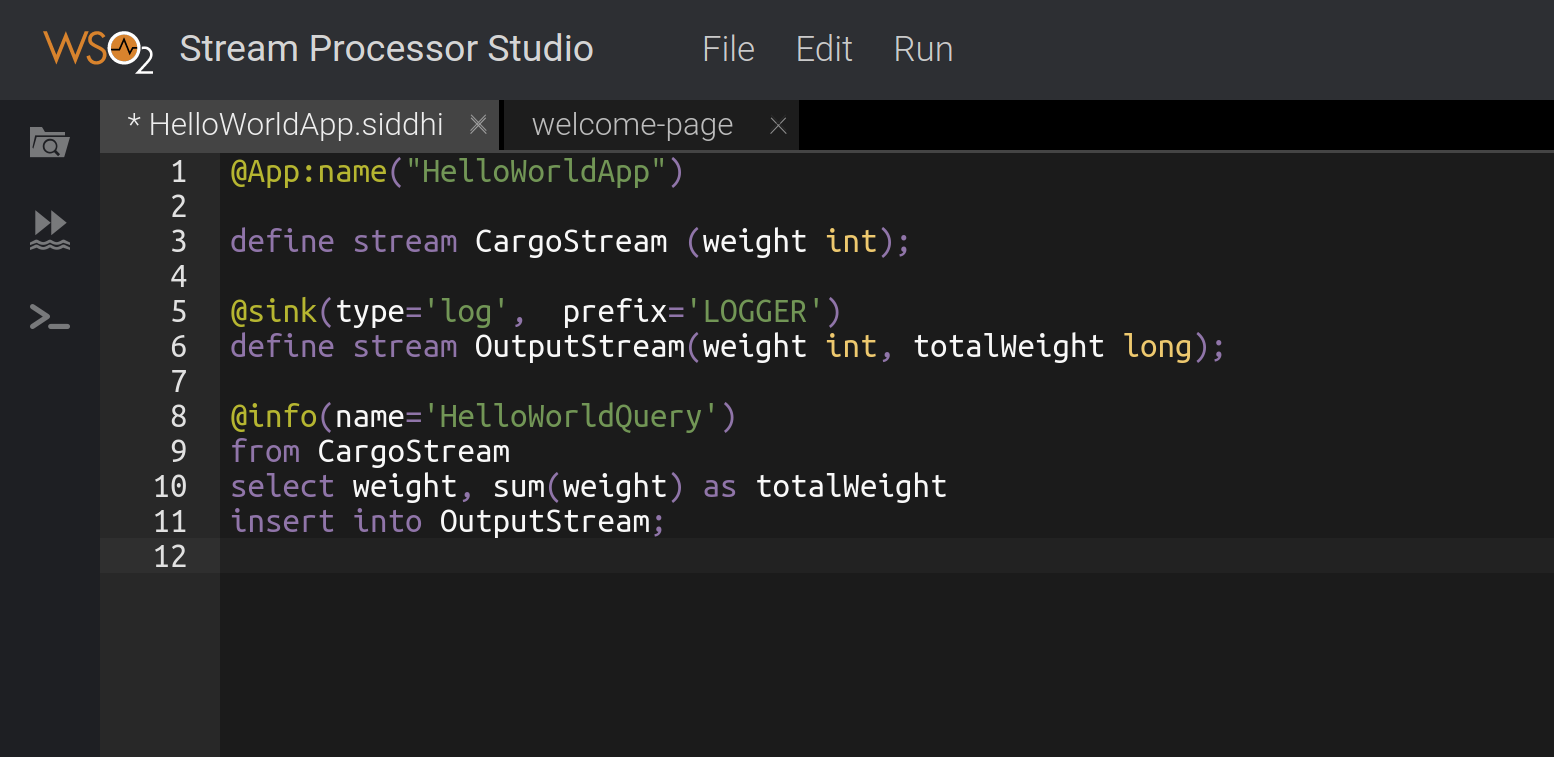
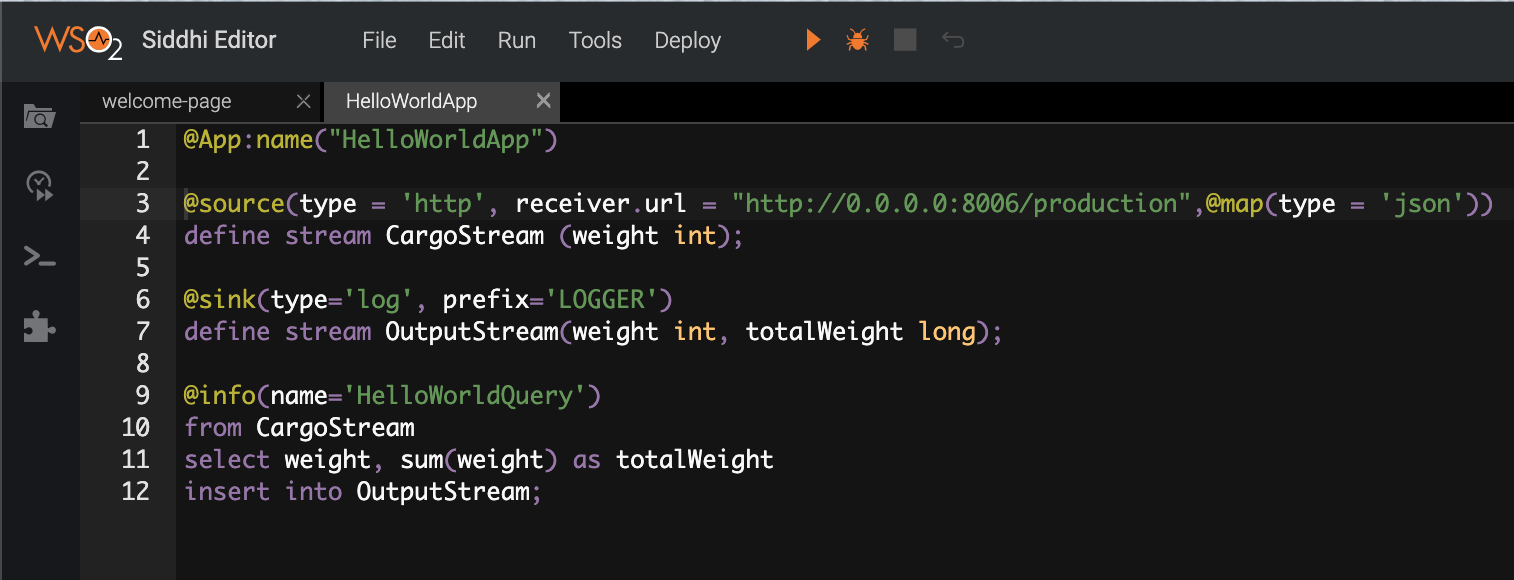
Update quick start guide to compatible with Siddhi 5.x.x and add docker based streaming micro service sample

diff --git a/docs/documentation/siddhi-5.x/quckstart-5.x.md b/docs/documentation/siddhi-5.x/quckstart-5.x.md
@@ -71,35 +71,33 @@ language which is discussed in the [section 4](#4-siddhi-hello-world-your-first-
 
 ## 3. Using Siddhi for the first time
 
-In this section, we will be using the WSO2 Stream Processor(referred to as SP in the rest of this guide) — a server version of Siddhi that has a
-sophisticated editor with a GUI (referred to as _**“Stream Processor Studio”**_) where you can write your query and simulate events
-as a data stream.
+In this section, we will be using the Tooling distribution — a server version of Siddhi that has a sophisticated editor with a GUI(referred to as _**“Siddhi Editor”**_) where you can write your query and simulate events as a data stream.
 
 **Step 1** — Install
 [Oracle Java SE Development Kit (JDK)](http://www.oracle.com/technetwork/java/javase/downloads/index.html) version 1.8. <br>
 **Step 2** — [Set the JAVA_HOME](https://docs.oracle.com/cd/E19182-01/820-7851/inst_cli_jdk_javahome_t/) environment
 variable. <br>
-**Step 3** — Download the latest [WSO2 Stream Processor](http://wso2.com/analytics?utm_source=gitanalytics&utm_campaign=gitanalytics_Jul17). <br>
-**Step 4** — Extract the downloaded zip and navigate to `<SP_HOME>/bin`. <br> (`SP_HOME` refers to the extracted folder) <br>
+**Step 3** — Download the latest tooling distribution from [here](https://github.com/siddhi-io/distribution/releases/download/v0.1.0/siddhi-tooling-0.1.0.zip).<br>
+**Step 4** — Extract the downloaded zip and navigate to `<TOOLING_HOME>/bin`. <br> (`TOOLING_HOME` refers to the 
+extracted folder) <br>
 **Step 5** — Issue the following command in the command prompt (Windows) / terminal (Linux)
 
 ```
-For Windows: editor.bat
-For Linux: ./editor.sh
+For Windows: tooling.bat
+For Linux: ./tooling.bat
 ```
-For more details about WSO2 Stream Processor, see its [Quick Start Guide](https://docs.wso2.com/display/SP400/Quick+Start+Guide).
 
-After successfully starting the Stream Processor Studio, the terminal in Linux should look like as shown below:
+After successfully starting the Siddhi Editor, the terminal should look like as shown below:
 
-![](../../images/quickstart/after-starting-sp.png?raw=true "Terminal after starting WSO2 Stream Processor Text Editor")
+![](../../images/quickstart/after-starting-editor.png?raw=true "Terminal after starting Siddhi Editor")
 
-After starting the WSO2 Stream Processor, access the Stream Processor Studio by visiting the following link in your browser.
+After starting the Siddhi Editor, access the Editor GUI by visiting the following link in your browser.
 ```
 http://localhost:9390/editor
 ```
-This takes you to the Stream Processor Studio landing page.
+This takes you to the Siddhi Editor landing page.
 
-![](../../images/quickstart/sp-studio.png?raw=true "Stream Processor Studio")
+![](../../images/quickstart/siddhi-editor.png?raw=true "Siddhi Editor")
 
 ## 4. Siddhi ‘Hello World!’
 
@@ -122,14 +120,24 @@ _“HelloWorldApp”_
 @App:name("HelloWorldApp")
 ```
 **Part 2 — Defining the input stream.** The stream needs to have a name and a schema defining the data that each incoming event should contain.
-The event data attributes are expressed as name and type pairs. In this example:
+The event data attributes are expressed as name and type pairs. Also we need to attach a_"source"_  to the 
+created stream so that we can send events to that stream. (**Source is the Siddhi way to consume streams from 
+external systems.** This particular `http` type source will spin up a HTTP endpoint and keep on listening to events 
+though that endpoint. To learn more about sources, see [source](http://siddhi.io/documentation/siddhi-5.x/query-guide-5.x/#source))
+
+
+In this example:
 
 * The name of the input stream — _“CargoStream”_ <br>
 This contains only one data attribute:
 * The name of the data in each event — _“weight”_
 * Type of the data _“weight”_ — int
+* Type of source - HTTP
+* HTTP endpoint address - http://0.0.0.0:8006/cargo
+* Accepted input data type - JSON
 
 ```
+@source(type = 'http', receiver.url = "http://0.0.0.0:8006/cargo",@map(type = 'json'))
 define stream CargoStream (weight int);
 ```
 **Part 3 - Defining the output stream.** This has the same info as the previous definition with an additional
@@ -155,13 +163,18 @@ from CargoStream
 select weight, sum(weight) as totalWeight
 insert into OutputStream;
 ```
-
+Final Siddhi application in the editor will look like below.
 ![](../../images/quickstart/hello-query.png?raw=true "Hello World in Stream Processor Studio")
 
-## 5. Testing Siddhi Application
+You can copy the final Siddhi app from below.
+<script src="https://gist.github.com/tishan89/dafb25a494add587b7259c077ac49914.js"></script>
 
-The Stream Processor Studio has in-built support to simulate events. You can do it via the _“Event Simulator”_
-panel at the left of the Stream Processor Studio. You should save your _HelloWorldApp_ by browsing to **File** ->
+## 5. Testing Siddhi Application
+In this section we will be testing the logical accuracy of Siddhi query using in-built functions of Siddhi Editor. In
+ a later section we will invoke the HTTP endpoint and perform an end to end integration test.
+
+The Siddhi Editor has in-built support to simulate events. You can do it via the _“Event Simulator”_
+panel at the left of the Siddhi Editor. You should save your _HelloWorldApp_ by browsing to **File** ->
 **Save** before you run event simulation. Then click  **Event Simulator** and configure it as shown below.
 
 ![](../../images/quickstart/event-simulation.png?raw=true "Simulating Events in Stream Processor Studio")
@@ -177,7 +190,7 @@ panel at the left of the Stream Processor Studio. You should save your _HelloWor
 If the Siddhi application is successfully started, the following message is printed in the Stream Processor Studio console:</br>
 _“HelloWorldApp.siddhi Started Successfully!”_
 
-**Step 3 — Click “Send” and observe the terminal** where you started WSO2 Stream Processor Studio.
+**Step 3 — Click “Send” and observe the terminal**
 You can see a log that contains _“outputData=[2, 2]”_. Click **Send** again and observe a log with
 _“outputData=[2, 4]”_. You can change the value of the weight and send it to see how the sum of the weight is updated.
 
@@ -187,7 +200,7 @@ Bravo! You have successfully completed creating Siddhi Hello World!
 
 ## 6. A bit of Stream Processing
 
-This section demonstrates how to carry out **temporal window processing** with Siddhi.
+This section will improve our Siddhi app to demonstrates how to carry out **temporal window processing** with Siddhi.
 
 Up to this point, we have been carrying out the processing by having only the running sum value in-memory.
 No events were stored during this process.
@@ -220,9 +233,8 @@ We also need to modify the _"OutputStream"_ definition to accommodate the new _"
 define stream OutputStream(weight int, totalWeight long, averageWeight double);
 ```
 
-The updated Siddhi Application should look as shown below:
-
-![](../../images/quickstart/window-processing-app.png?raw=true "Window Processing with Siddhi")
+The updated Siddhi Application is given below:
+<script src="https://gist.github.com/tishan89/6b57a2c226486e745451ef2f691f9750.js"></script>
 
 Now you can send events using the Event Simulator and observe the log to see the sum and average of the weights of the last three
 cargo events.
@@ -230,6 +242,38 @@ cargo events.
 It is also notable that the defined `length window` only keeps 3 events in-memory. When the 4th event arrives, the
 first event in the window is removed from memory. This ensures that the memory usage does not grow beyond a specific limit. There are also other
 implementations done in Siddhi  to reduce the memory consumption. For more information, see [Siddhi Architecture](http://siddhi.io/documentation/siddhi-5.x/architecture-5.x/).
+
+## 7. Running streaming application as a micro service
+
+This this step we will run above developed Siddhi application as a micro service utilizing docker. For there available options please refer [here](https://siddhi-io.github.io/siddhi/documentation/siddhi-5.x/user-guide-5.x/#using-siddhi-in-various-environments). For this we will use siddhi-runner distribution. Follow below steps.
+
+* Install docker in your machine and start the daemon.([https://docs.docker.com/install/](https://docs.docker
+.com/install/))
+* Pull the latest siddhi-runner image by executing below command
+```
+docker pull siddhiio/siddhi-runner-alpine:latest
+```
+* Navigate to Siddhi Editor and choose **File -> Export File** for download above Siddhi application as a file.
+* Move downloaded Siddhi file(_HelloWorldModifiedApp.siddhi_) to a desired location(/home/me/siddhi-apps)
+* Execute below command to start a streaming micro service which runs above developed siddhi application. **(Please 
+pay attention to the siddhi app name as in the Quick Start Guide we have changed the modified Siddhi app name from 
+that of the original app.)**
+```
+docker run -it -p 8006:8006 -v /home/me/siddhi-apps:/apps siddhiio/siddhi-runner-alpine 
+-Dapps=/apps/HelloWorldModifiedApp.siddhi
+```
+* Once container is started use below curl command to send events into _"CargoStream"_ 
+```
+curl -X POST http://localhost:8006/cargo \
+  --header "Content-Type:application/json" \
+  -d '{"event":{"weight":2}}'
+```
+* You will observe below messages in container logs.
+```
+[2019-04-24 08:54:51,755]  INFO {io.siddhi.core.stream.output.sink.LogSink} - LOGGER : Event{timestamp=1556096091751, data=[2, 2, 2.0], isExpired=false}
+[2019-04-24 08:56:25,307]  INFO {io.siddhi.core.stream.output.sink.LogSink} - LOGGER : Event{timestamp=1556096185307, data=[2, 4, 2.0], isExpired=false}
+```
+
 
 To learn more about the Siddhi functionality, see [Siddhi Query Guide](http://siddhi.io/documentation/siddhi-5.x/query-guide-5.x/).
 
